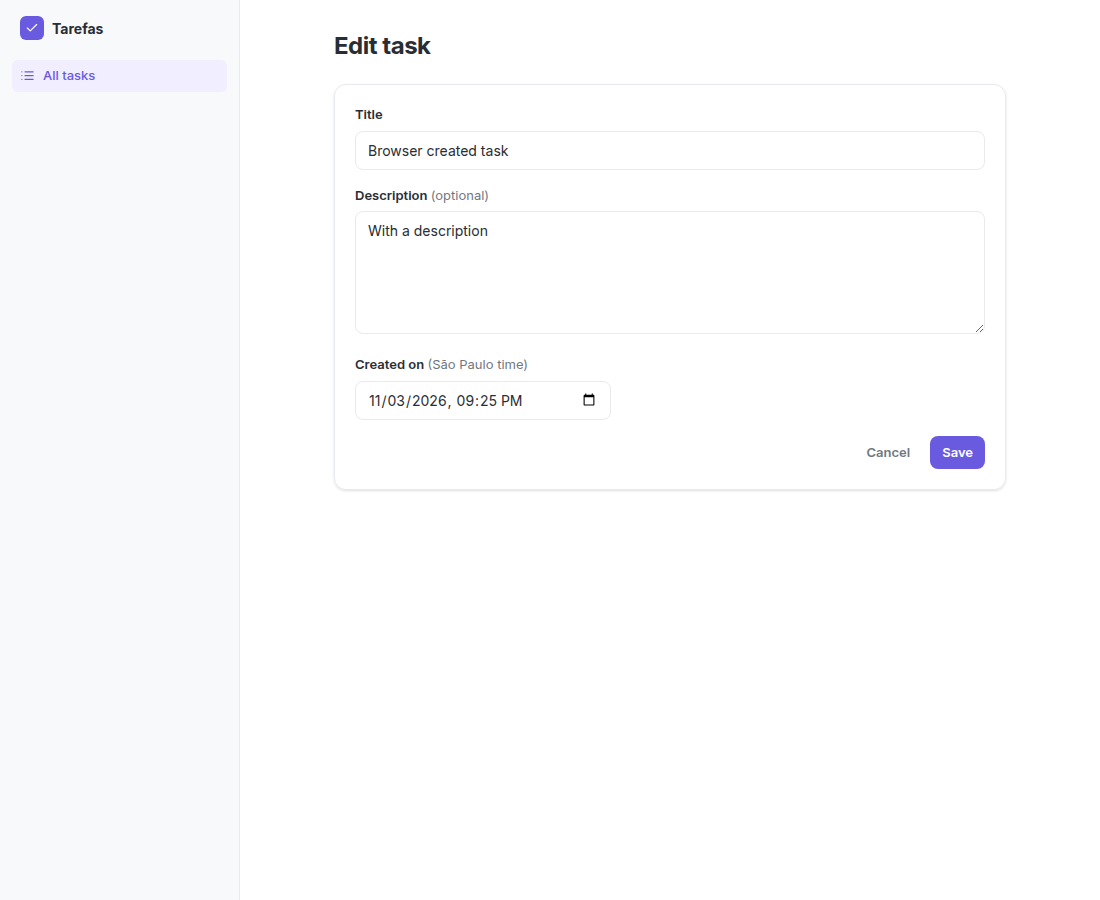
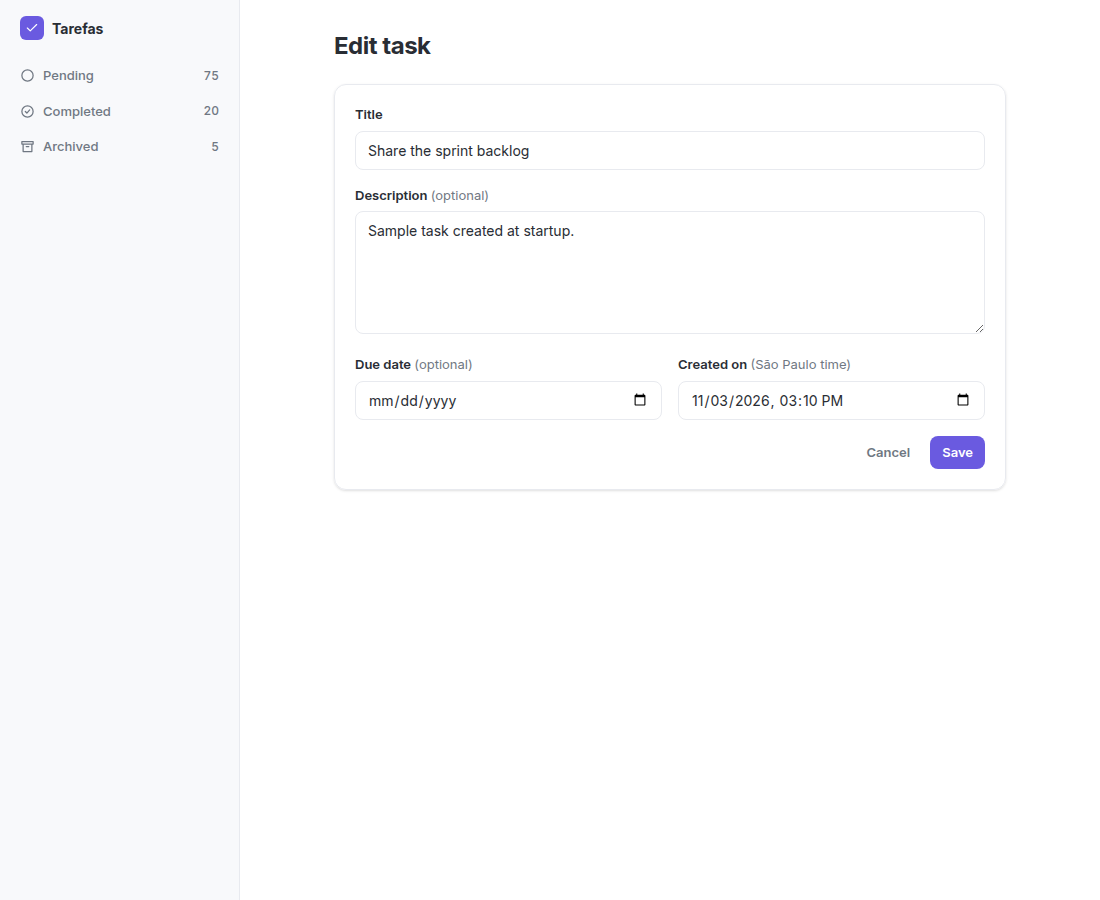
docs: document due dates, status views and new screenshots

diff --git a/README.md b/README.md
@@ -10,9 +10,11 @@ Add a task by typing one line, scroll through the list without ever hitting a "n
 
 - **Add tasks without leaving the list.** Type a title, press Enter, and keep typing the next one: focus stays in the field, even while the previous task is saving. The full form is one click away when you want a description.
 - **Content on first paint.** The list arrives as HTML from the server, so there is no loading spinner on page load and no empty flash.
-- **Infinite scroll you can see working.** It starts with 100 fictional tasks and loads 10 at a time, with a live "Showing 20 of 100 tasks" counter.
+- **Complete, archive and filter.** One click marks a task as done. Pending, Completed and Archived each have their own view in the sidebar, with live counts and a URL you can link to.
+- **Due dates that stand out.** Tasks can have a due date, and pending tasks past it turn red. A finished task is never marked late.
+- **Infinite scroll you can see working.** Each view loads 10 tasks at a time, with a live "Showing 20 of 75 tasks" counter.
 - **Pagination that survives deletions.** Pages are anchored to task ids, so removing a task never skips or repeats rows, even when the removed task is the one the next page starts from.
-- **Editable date and time.** Every task shows when it was created, down to the minute, and the edit form can change it.
+- **Editable creation date and time.** Every task shows when it was created, down to the minute, and the edit form can change it.
 - **One source of truth for validation.** The form and the API use the same Zod schema, so they can't disagree. A title made only of spaces is rejected on both sides.
 - **Errors people can read.** Validation failures reach the UI as "Title is required", not as a JSON dump. Editing a task someone deleted in another tab says so, and the list corrects itself. If the connection drops, the app says that too, and quick add gives your text back.
 - **A real 404.** An unknown task id returns HTTP 404 with a friendly page, not a 200 with an error message inside.
@@ -21,9 +23,13 @@ Add a task by typing one line, scroll through the list without ever hitting a "n
 
 ## Screenshots
 
-| Editing, with date and time | Validation in the form | Mobile |
-| --- | --- | --- |
-| ![Edit form with title, description and date and time fields](docs/screenshots/edit.png) | ![Form showing the message Title is required](docs/screenshots/form.png) | ![Task list on a phone-sized screen](docs/screenshots/mobile.png) |
+| Completed view | Editing, with due date and creation date |
+| --- | --- |
+| ![Completed tasks, checked and struck through, with the Completed view active in the sidebar](docs/screenshots/completed.png) | ![Edit form with title, description, due date and creation date fields](docs/screenshots/edit.png) |
+
+| Validation in the form | Mobile |
+| --- | --- |
+| ![Form showing the message Title is required](docs/screenshots/form.png) | ![Task list on a phone-sized screen](docs/screenshots/mobile.png) |
 
 ## Quick start
 
@@ -34,7 +40,7 @@ npm install
 npm run dev
 ```
 
-Open http://localhost:3000. The app starts with 100 fictional tasks, so the list and infinite scroll work right away.
+Open http://localhost:3000. The app starts with 100 fictional tasks (75 pending, 20 completed and 5 archived), so every view and infinite scroll work right away.
 
 For a production build:
 
@@ -88,8 +94,10 @@ src/
 │   ├── feedback.tsx              # success and error toast
 │   ├── icons.tsx                 # inline SVG icons
 │   ├── quick-add.tsx             # one-line task creation in the list
+│   ├── sidebar-nav.tsx           # status views with live counts
 │   ├── task-form.tsx             # shared create and edit form
-│   └── task-list.tsx             # list, delete, infinite scroll
+│   ├── task-list.tsx             # one status view, with infinite scroll
+│   └── task-row.tsx              # one task: complete, archive, delete
 ├── lib/
 │   ├── date.ts                   # date display and date input conversion
 │   ├── error-message.ts          # readable message for connection failures
@@ -109,6 +117,8 @@ src/
 | `titulo` | `string` | Required, trimmed |
 | `descricao` | `string` | Optional |
 | `dataCriacao` | `string` | ISO-8601 timestamp, set by the server on creation and editable afterwards |
+| `dataEntrega` | `string` | Optional due date, `YYYY-MM-DD` |
+| `status` | `string` | `pendente` (default), `concluida` or `arquivada` |
 
 ## API
 
@@ -116,13 +126,15 @@ Every procedure lives under `tasks`, at `/api/trpc/tasks.<procedure>`.
 
 | Procedure | Type | Input | Errors |
 | --- | --- | --- | --- |
-| `list` | query | `cursor?`, `limit?` (default 10, max 50) | `BAD_REQUEST` |
+| `list` | query | `cursor?`, `limit?` (default 10, max 50), `status?` (default `pendente`) | `BAD_REQUEST` |
+| `counts` | query | none | none |
 | `getById` | query | `id` | `NOT_FOUND` |
-| `create` | mutation | `titulo`, `descricao?` | `BAD_REQUEST` |
-| `update` | mutation | `id`, `titulo`, `descricao?`, `dataCriacao?` | `BAD_REQUEST`, `NOT_FOUND` |
+| `create` | mutation | `titulo`, `descricao?`, `dataEntrega?` | `BAD_REQUEST` |
+| `update` | mutation | `id`, `titulo`, `descricao?`, `dataEntrega?`, `dataCriacao?` | `BAD_REQUEST`, `NOT_FOUND` |
+| `setStatus` | mutation | `id`, `status` | `BAD_REQUEST`, `NOT_FOUND` |
 | `delete` | mutation | `id` | `NOT_FOUND` |
 
-`list` returns `{ items, nextCursor, total }`. In `update`, leaving out `descricao` clears it, and leaving out `dataCriacao` keeps the current date.
+`list` returns `{ items, nextCursor, total }`, where `total` counts the tasks in that status. In `update`, leaving out `descricao` or `dataEntrega` clears it, and leaving out `dataCriacao` keeps the current date. The status never changes through `update`.
 
 Try it from a terminal while the app is running:
 
@@ -130,7 +142,12 @@ Try it from a terminal while the app is running:
 # Create a task
 curl -X POST http://localhost:3000/api/trpc/tasks.create \
   -H 'content-type: application/json' \
-  -d '{"titulo":"Write the docs"}'
+  -d '{"titulo":"Write the docs","dataEntrega":"2030-01-31"}'
+
+# Complete the task with id 100
+curl -X POST http://localhost:3000/api/trpc/tasks.setStatus \
+  -H 'content-type: application/json' \
+  -d '{"id":"100","status":"concluida"}'
 
 # Try without a title: returns 400 with "Title is required"
 curl -X POST http://localhost:3000/api/trpc/tasks.create \
@@ -152,6 +169,10 @@ curl -G http://localhost:3000/api/trpc/tasks.list \
 | ISO date strings | Travel through JSON unchanged, with no superjson or `Date` transformer | Dates must be parsed before display |
 | Schema in its own file | The form imports it without pulling server code into the browser | One more file |
 | Cursor based on increasing ids | Stable pages, even if the cursor's own task was deleted | The list follows creation order, so editing a task's date doesn't move its row |
+| Status views instead of sorting | Filtering keeps the id cursor working, while sorting by due date or priority would need a compound cursor | No custom sort order |
+| View in the URL (`?status=concluida`) | Views are server-rendered, linkable and survive a reload | None worth noting at this size |
+| A status field, not an `archived` flag | One field can't hold contradictory states such as completed and pending at once | Archiving a completed task forgets it was completed; restoring returns it to pending |
+| Due date without time | A due day has no time, so it can't shift between time zones | No deadlines to the hour |
 | Fixed time zone and hand-built date text | Server and browser render the same text, avoiding hydration errors | Everyone sees São Paulo time |
 | Quick add input is never disabled | A disabled input loses focus, and anything typed next would be lost | Several requests can run at once, which the store handles fine |
 | `networkMode: "always"` in TanStack Query | Offline requests fail with a message instead of pausing silently | No automatic resume when the connection returns |
@@ -159,7 +180,7 @@ curl -G http://localhost:3000/api/trpc/tasks.list \
 | `loading.tsx` only in the `(list)` route group | At the root it would also wrap the edit page, turning missing-task 404s into 200s | The edit page has no skeleton |
 | `postcss` override in `package.json` | Next 15 pins a version with known advisories; this moves to a patched one without leaving Next 15 | Must be reviewed when Next is upgraded |
 | Portuguese field names | `titulo`, `descricao` and `dataCriacao` are the domain vocabulary | Mixed with English code |
-| No component or icon library | Tokens in `globals.css` and five inline SVGs cover this UI | Components are written by hand |
+| No component or icon library | Tokens in `globals.css` and a few inline SVGs cover this UI | Components are written by hand |
 
 ## User-facing states
 
@@ -168,26 +189,27 @@ curl -G http://localhost:3000/api/trpc/tasks.list \
 | Opening the list | Skeleton rows while the page loads | `(list)/loading.tsx` |
 | Saving | Button disabled, showing "Saving..." | `task-form.tsx` |
 | Quick add in progress | "Saving..." beside the input, which stays available | `quick-add.tsx` |
-| Deleting | That row's delete button is disabled | `task-list.tsx` |
+| Deleting or changing status | That row's buttons are disabled | `task-row.tsx` |
+| Overdue | Due date in red, also announced to screen readers | `task-row.tsx` |
 | Loading more | "Loading more..." below the list | `task-list.tsx` |
 | End of list | "You've reached the end" | `task-list.tsx` |
 | Success | Toast that disappears after 4 seconds | `feedback.tsx` |
 | Validation error | "Title is required" or "Date and time are required" under the field, or a toast on quick add | `task-form.tsx`, `quick-add.tsx` |
 | Server error | Toast with the API message, such as "Task 24 not found" | `feedback.tsx` |
 | Connection failure | "Could not reach the server..." | `error-message.ts` |
-| Empty list | A sentence pointing to quick add and the full form | `task-list.tsx` |
+| Empty view | A sentence, pointing to quick add and the full form in Pending | `task-list.tsx` |
 | Not found | HTTP 404 with a link back to the list | `not-found.tsx` |
 
 ## Accessibility
 
 - Every form field has a label, and validation errors are linked to their input with `aria-describedby`.
 - Toasts use `role="status"` for success and `role="alert"` for errors, so screen readers announce them.
-- Icon buttons have descriptive labels, such as "Delete Update dependencies".
+- Icon buttons have descriptive labels, such as "Delete Update the release notes", and the completion control is exposed as a checkbox.
 - Row actions also appear on keyboard focus, and focus outlines are visible throughout.
 
 ## How it was verified
 
-The main flows were exercised in a real browser against the production build: infinite scroll through all 100 tasks, quick add with real keystrokes, create, edit (including date and time), delete, validation and server errors, an offline connection, a slow connection, the 404 status and the 375px layout, with no console or hydration errors. These checks were one-off scripts and are not part of this repository. Adding them as automated tests is the first item below.
+The main flows were exercised in a real browser against the production build: infinite scroll through whole views, completing, archiving and restoring, status filters and counts, quick add with real keystrokes, create, edit (including both dates), overdue rules, delete, validation and server errors, an offline connection, a slow connection, the 404 status and the 375px layout, with no console or hydration errors. These checks were one-off scripts and are not part of this repository. Adding them as automated tests is the first item below.
 
 ## Known limitations
 
@@ -199,7 +221,7 @@ The main flows were exercised in a real browser against the production build: in
 
 1. Add automated tests for the router and the main browser flows.
 2. Persist tasks in a database, keeping the store's small interface.
-3. Add a status field, making the row marker a working checkbox.
+3. Add sorting by due date, with a compound cursor.
 4. Add auth with a `protectedProcedure` and a session in the tRPC context.
-5. Add optimistic updates, so deletions feel instant on slow networks.
+5. Add optimistic updates, so completing and deleting feel instant on slow networks.
 6. Translate the interface.
